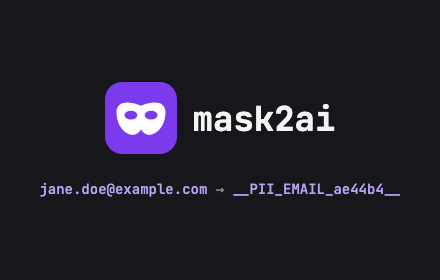
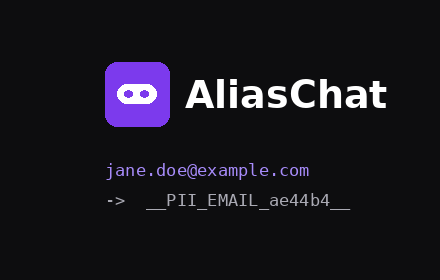
chore: Redraw store artwork with AliasChat branding

Changed region(s): [[0.0886, 0.2, 0.9159, 0.7714], [0.7682, 0.7429, 0.7977, 0.7714], [0.4432, 0.7429, 0.4727, 0.7714]]

diff --git a/store/listing.md b/store/listing.md
@@ -64,7 +64,7 @@ Tick all three certifications: not sold to third parties, not used for purposes 
 ## Assets to upload
 
 - Icon 128×128: `store/icon-128.png` (96px artwork with 16px transparent padding, as the store asks)
-- Screenshots 1280×800: `store/shot-1-wire.png` (what ChatGPT received), `store/shot-2-restored.png` (what you see). Rendered from frames of `demo/chatgpt-web.gif`; regenerate when the recording changes
+- Screenshots 1280×800: `store/shot-1-wire.png` (what ChatGPT received), `store/shot-2-restored.png` (what you see), `store/shot-1-aliaschat.png` (masking toast), `store/shot-2-aliaschat.png` (chat thread). Redrawn 2026-10-05 with AliasChat branding
 - Small promo tile 440×280: `store/promo-440x280.png` (logo and one placeholder example, no headline)
 
 ## Package
